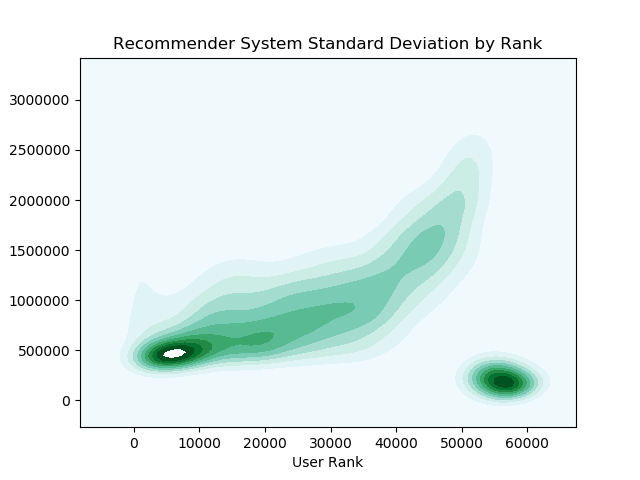
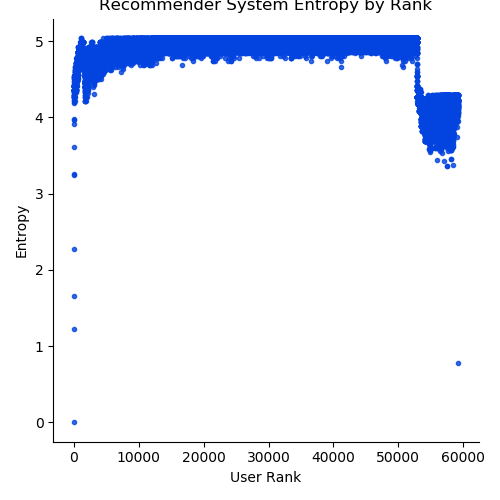
engine update

diff --git a/source/engine/engine.py b/source/engine/engine.py
@@ -7,6 +7,7 @@ from visuals import ResidualPlots
 # utilities
 from collections import defaultdict
 from copy import copy
+import os
 
 # meta
 import logging
@@ -83,10 +84,9 @@ class Residuals:
         return flatted_errors
 
     def get_average_percent_rank_error_per_question(self, n_total_users):
-        d = self.flatted_errors()
-        n_questions = len(self.raw_residuals_per_question)
-        for activity, sum_rank_error in d.items():
-            d[activity] = sum_rank_error/n_questions/n_total_users
+        d = {}
+        for activity, ranks in self.error_per_question.items():
+            d[activity] = np.mean(ranks) / n_total_users
         return d
 
     def summarize_error_by_threshold(self):
@@ -115,8 +115,8 @@ class Engine:
     t1 = time.time()
 
     # load questions and all user activities
-    X = pd.read_csv(BASE_PATH + 'X_train.csv').head(33)
-    y = pd.read_csv(BASE_PATH + 'y_train.csv').head(33)
+    X = pd.read_csv(BASE_PATH + 'X_train.csv').head(600)
+    y = pd.read_csv(BASE_PATH + 'y_train.csv').head(600)
     X['CreationDate'] = pd.to_datetime(X['CreationDate'], format="%Y-%m-%dT%H:%M:%S")
 
     # load engineered features
@@ -141,7 +141,10 @@ class Engine:
         self.residuals = Residuals(Engine.X, Engine.y)
         self.recommender_user_matrix = np.zeros((len(Engine.X), len(Engine.unique_users_list)))
 
-    def rank_all_questions(self, w, log_disabled=False):
+    def rank_all_questions(self, w, opt_activity, log_disabled=False, save_output=False):
+        if save_output and not os.path.exists('feature_matrices'):
+            os.makedirs('feature_matrices')
+
         logger = logging.getLogger()
         logger.disabled = log_disabled
         n_features = len(w)
@@ -157,11 +160,12 @@ class Engine:
         t1 = time.time()
         bar = progressbar.ProgressBar()
         for index, row in bar(Engine.X.iterrows()):
-            question_score_matrix = Engine._rank_question(row, copy(matrix_init), w)
+            question_score_matrix = Engine._rank_question(row, copy(matrix_init), w, opt_activity)
             self.residuals.compute_and_store_residuals(question_score_matrix, index)
             # store the user matrix results as part of another visualization
             self.recommender_user_matrix[index, :] = question_score_matrix[:, 0]
-
+            if save_output:
+                np.savetxt(f'./feature_matrices/q_{index}_feature_matrix.csv', question_score_matrix, delimiter=',')
         t2 = time.time()
 
         logging.info(f'Ranking all questions computation finished in {(t2 - t1)/60} minutes.\n'
@@ -170,7 +174,7 @@ class Engine:
         logger.disabled = False
 
     @staticmethod
-    def _rank_question(x_row, M, w):
+    def _rank_question(x_row, M, w, opt_activity):
         for i, user in enumerate(M[:, 0]):
             M[i, 1:-1] = Engine._compute_feature_row_for_user(user, x_row)
 
@@ -186,7 +190,7 @@ class Engine:
         M[:, -1] = np.array([np.sum(M[i, 1:-1]) for i in range(M.shape[0])])
 
         # post process the matrix, and reduce inactive users before sorting the scores
-        # M[:, -1] = Engine.__post_process_indicate(M, x_row)
+        # M[:, -1] = Engine.__post_process_indicate(M, x_row, opt_activity)
 
         # by default sort will sort by the last column
         return Engine._sort_matrix_by_column(M, -1, ascending=False)
@@ -204,11 +208,15 @@ class Engine:
         return M[np.argsort(multiplier*M[:, i_column])]
 
     @staticmethod
-    def __post_process_indicate(M, x_row):
+    def __post_process_indicate(M, x_row, opt_activity):
         # key:
         #   M[i, 0] -> user_id
         #   M[i, -1] -> score
-        return np.array([0 if (Engine.indicator.is_inactive(x_row.Id, M[i, 0]) or
-                               Engine.indicator.in_unavailable(M[i, 0], x_row.CreationDate.hour) or
-                               Engine.indicator.has_no_relative_expertise(M[i, 0], x_row.Tags.split())) else M[i, -1]
-                         for i in range(M.shape[0])])
+        # after testing, we have identified that the indicator variables
+        # only help reduce the error for certain kinds of activities
+        if opt_activity == 'answerers' or opt_activity == 'commentors':
+            return np.array([0 if (Engine.indicator.is_inactive(x_row.Id, M[i, 0]) or
+                                   Engine.indicator.has_no_relative_expertise(M[i, 0], x_row.Tags.split())) else M[i, -1]
+                             for i in range(M.shape[0])])
+        else:
+            return M[:, -1]

diff --git a/source/engine/visuals.py b/source/engine/visuals.py
@@ -4,14 +4,23 @@ import seaborn as sns
 import pandas as pd
 import numpy as np
 import logging
+from scipy import stats
+
+
+# https://stats.stackexchange.com/questions/51248/how-can-i-find-the-standard-deviation-in-categorical-distribution
+def entropy(cata_vector):
+    px = np.matrix(stats.itemfreq(cata_vector))[:, 1] / len(cata_vector)
+    lpx = np.log2(px)
+    ent = -np.sum(px.T*lpx)
+    return ent
 
 
 class ResidualPlots:
-    col_list = ["blue", "cyan", "purple", "red"]
+    col_list = ["blue", "cyan", "green", "red"]
     col_list_palette = sns.xkcd_palette(col_list)
 
     @staticmethod
-    def _build_residual_dataframe(observed_ranks):
+    def build_residual_dataframe(observed_ranks):
         df = pd.DataFrame(ResidualPlots.__flatten_residual_dictionary(observed_ranks))
         _max_rank = max(df['rank'].values)
         df['rank'] = df['rank'].apply(lambda x: x / _max_rank)
@@ -28,7 +37,7 @@ class ResidualPlots:
 
     @staticmethod
     def plot_residual_matrix(raw_residuals, save_path):
-        df = ResidualPlots._build_residual_dataframe(raw_residuals)
+        df = ResidualPlots.build_residual_dataframe(raw_residuals)
         sns.set_palette(ResidualPlots.col_list_palette)
 
         g = sns.lmplot('rank', 'question_number', data=df, hue='activity',
@@ -41,23 +50,21 @@ class ResidualPlots:
         ax = plt.gca()
         ax.invert_yaxis()
 
-        avg_error = df.groupby('activity')['rank'].mean()
-        for i, err in enumerate(avg_error):
-            plt.axvline(x=err, ymax=0.96, color=ResidualPlots.col_list[i])
+        col_dict = {'i_answer': 'blue', 'i_comment': 'cyan',
+                    'i_editor': 'green', 'i_favorite': 'red'}
+        for act, sub_df in df.groupby('activity'):
+            plt.axvline(x=sub_df['rank'].median(), ymax=0.96, color=col_dict[act])
 
-        # keys = ['i_answer', 'i_comment', 'i_edit', 'i_favorite']
-        # dic = dict(zip(keys, ResidualPlots.col_list))
-        # dic.get(avg_error[avg_error == err].index[0])
         plt.gcf().suptitle("Residual Matrix")
         plt.savefig(save_path)
         plt.show()
 
     @staticmethod
     def build_threshold_dataframe(raw_residuals):
-        df = ResidualPlots._build_residual_dataframe(raw_residuals)
+        df = ResidualPlots.build_residual_dataframe(raw_residuals)
 
         def find_nearest(array, value):
-            # searchsorted finds the index where an element would be inserted to maintain order in the array
+            # search sorted finds the index where an element would be inserted to maintain order in the array
             idx = np.searchsorted(array, value, side='right')
             if idx > 0 and (idx == len(array) or math.fabs(value - array[idx - 1]) < math.fabs(value - array[idx])):
                 return idx - 1
@@ -84,7 +91,7 @@ class ResidualPlots:
 
     @staticmethod
     def plot_error_distributions(raw_residuals, save_path):
-        df = ResidualPlots._build_residual_dataframe(raw_residuals)
+        df = ResidualPlots.build_residual_dataframe(raw_residuals)
         activity_groups = df.groupby('activity')
         n_error_types = len(activity_groups)
         fig, axs = plt.subplots(1, n_error_types, figsize=(15, 6))
@@ -103,11 +110,13 @@ class ResidualPlots:
     @staticmethod
     def plot_variance_per_rank(rank_matrix, save_path):
         rank = np.arange(0, rank_matrix.shape[1])
-        sd = np.std(rank_matrix, axis=0)
-        sns.kdeplot(rank, sd, shade=True)
-        plt.title('Recommender System Standard Deviation by Rank')
+        entropy_ar = np.array([entropy(rank_matrix[:, j]) for j in rank], dtype=np.float)
+        sns.lmplot('rank', 'entropy', data=pd.DataFrame({'rank': rank, 'entropy': entropy_ar}),
+                   fit_reg=False, markers='.')
+        # alternative, but less visibility sns.kdeplot(rank, entropy_ar, shade=True)
+        plt.title('Recommender System Entropy by Rank')
         plt.xlabel('User Rank')
-        plt.ylabel('Standard Deviation')
+        plt.ylabel('Entropy')
         plt.savefig(save_path)
         plt.show()
 

diff --git a/source/engine/test.py b/source/engine/test.py
@@ -13,16 +13,14 @@ class TestBasic:
     def random_weight(self):
         engine = Engine()
         weights = np.random.rand(1, self.n_features)[0] + 1.5
-        engine.rank_all_questions(weights)
+        engine.rank_all_questions(weights, None)
 
 
 class TestPlots:
     def __init__(self, n_features):
         self.engine = Engine()
         weights = np.random.rand(1, n_features)[0] + 1.5
-        self.engine.rank_all_questions(weights)
-        # raw_r = ResidualPlots._build_residual_dataframe(self.engine.residuals.raw_residuals_per_question)
-        # raw_r.to_csv('residuals_300_questions.csv')
+        self.engine.rank_all_questions(weights, None)
 
     def residual_matrix(self):
         ResidualPlots.plot_residual_matrix(self.engine.residuals.raw_residuals_per_question,
@@ -38,7 +36,7 @@ class TestPlots:
 
     def variance_per_rank(self):
         ResidualPlots.plot_variance_per_rank(self.engine.recommender_user_matrix,
-                                             'TEST_variance_per_rank.png')
+                                             'TEST_entropy_per_rank.png')
 
 
 class TestWeightVector:
@@ -49,34 +47,31 @@ class TestWeightVector:
         engine = Engine()
         w = WeightVector.tune_weight_vector(self.n_features)
         print('Optimized weight vector:', w)
-        engine.rank_all_questions(w)
+        engine.rank_all_questions(w, None)
 
     def build_error_matrix_by_cartisian_weight(self, axis_lim, inc):
         WeightVector.cartisian_weight_approximation(self.n_features, axis_lim, inc)
 
 
 class Test:
-    def __init__(self, n_features):
-        self.t = TestBasic(n_features)
-        self.pt = TestPlots(n_features)
-        self.wt = TestWeightVector(n_features)
+    @staticmethod
+    def plot_tests(n_features):
+        pt = TestPlots(n_features)
+        pt.residual_matrix()
+        pt.rank_distributions()
+        pt.error_by_threshold()
+        pt.variance_per_rank()
 
-    def test_all(self):
-        self.basic_tests()
-        self.plot_tests()
-        self.weight_vector_tests()
+    @staticmethod
+    def save_residual_files(n_features):
+        engine = Engine()
+        # weights = np.random.rand(1, n_features)[0] + 1.5
+        weights = np.repeat(1, n_features)
+        engine.rank_all_questions(weights, None, save_output=True)
 
-    def basic_tests(self):
-        self.t.random_weight()
-
-    def plot_tests(self):
-        self.pt.residual_matrix()
-        self.pt.rank_distributions()
-        self.pt.error_by_threshold()
-        self.pt.variance_per_rank()
-
-    def weight_vector_tests(self):
-        self.wt.weight_tune()
+        # residuals data frame
+        raw_r = ResidualPlots.build_residual_dataframe(engine.residuals.raw_residuals_per_question)
+        raw_r.to_csv('residuals_600_q.csv')
 
 
 def set_up_log_files(name):
@@ -114,9 +109,8 @@ Post Features and Residual Analysis:
 
 if __name__ == '__main__':
     set_up_log_files('run.log')
-    t = Test(6)
-    # t.basic_tests()
-    t.plot_tests()
+    # Test.plot_tests(6)
+    Test.save_residual_files(6)
 
     # t = TestWeightVector(6)
     # t.build_error_matrix_by_cartisian_weight((-500, 1000), 500) # 52 hours

diff --git a/source/engine/features.py b/source/engine/features.py
@@ -138,10 +138,9 @@ class Indicator:
         self.user_expertise = UserExpertise()
 
     def is_inactive(self, q_id, u_id):
+        # reduces error for commentors
         return u_id in self.I_Network[q_id]
 
-    def in_unavailable(self, u_id, hour):
-        return self.user_avail.get_user_availability_probability(u_id, hour) == 0
-
     def has_no_relative_expertise(self, u_id, tags):
+        # reduces error for answerers and commentors
         return self.user_expertise.get_user_sum_expertise(u_id, tags) == 0
